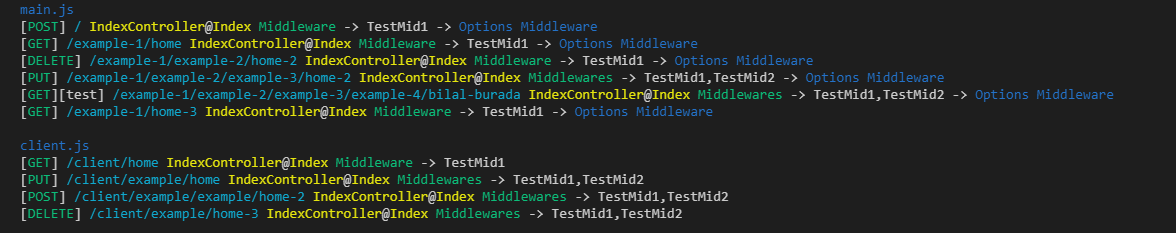
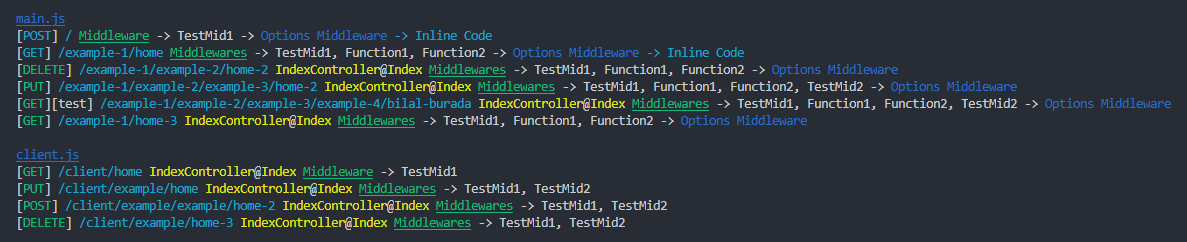
Added writing inline code to action and middlewares params.

Changed region(s): [[0.0, 0.03, 1.0, 0.5408], [0.0, 0.6009, 0.6122, 0.9614]]

diff --git a/index.js b/index.js
@@ -101,7 +101,7 @@ var DynamicRoute = /** @class */ (function () {
             }
             else {
                 route.Key = route.Key || '';
-                route.Middlewares = route.Middlewares || [];
+                route.Middlewares = typeof route.Middlewares === 'function' ? [route.Middlewares] : (route.Middlewares || []);
                 if (route.ParentIds) {
                     var routeParentIds_1 = route.ParentIds.split(',');
                     var routeUrls_1 = [];
@@ -206,7 +206,7 @@ var DynamicRoute = /** @class */ (function () {
                         var FullControllerPath = _this.Folders.Controllers + '/' + route.Controller;
                         var MiddlewaresFolder_1 = _this.Folders.Middlewares;
                         if (route.OptionsMiddlewares) {
-                            _this.App.use(route.Url + "*", route.OptionsMiddlewares.map(function (mid) {
+                            _this.App.use(route.Url + "/*", route.OptionsMiddlewares.map(function (mid) {
                                 if (typeof mid === 'function') {
                                     return mid;
                                 }
@@ -214,7 +214,9 @@ var DynamicRoute = /** @class */ (function () {
                                     return require(MiddlewaresFolder_1 + '/' + mid);
                                 }
                             }));
-                            _this.routeLog(route.Method, route.Key, route.Url, route.Controller, route.Action, route.Middlewares, route.OptionsMiddlewares);
+                        }
+                        if (typeof route.Action === 'function') {
+                            _this.routeLog(route.Method, route.Key, route.Url, '', '', route.Middlewares, route.OptionsMiddlewares, '', 'Inline Code');
                         }
                         else {
                             _this.routeLog(route.Method, route.Key, route.Url, route.Controller, route.Action, route.Middlewares, route.OptionsMiddlewares);
@@ -226,7 +228,7 @@ var DynamicRoute = /** @class */ (function () {
                             else {
                                 return require(MiddlewaresFolder_1 + '/' + mid);
                             }
-                        }), require("" + FullControllerPath)["" + route.Action]);
+                        }), (typeof route.Action === 'function' ? route.Action : require("" + FullControllerPath)["" + route.Action]));
                     }
                     else {
                         _this.routeLog(route.Method, route.Key, route.Url, route.Controller, route.Action, route.Middlewares, route.OptionsMiddlewares, 'Passive');
@@ -238,6 +240,7 @@ var DynamicRoute = /** @class */ (function () {
             });
         }
         catch (e) {
+            console.log(e);
             console.log(colors_1.default.red(e));
         }
     };
@@ -278,18 +281,33 @@ var DynamicRoute = /** @class */ (function () {
     /*
      * Routelar için bilgiler console a basılıyor.
      */
-    DynamicRoute.prototype.routeLog = function (method, key, url, controller, action, middlewares, optionsMiddlewares, error) {
+    DynamicRoute.prototype.routeLog = function (method, key, url, controller, action, middlewares, optionsMiddlewares, error, codeInfo) {
         if (error === void 0) { error = ''; }
-        var text = "" + (error ? "[" + colors_1.default.red("" + method) + "]" : "[" + colors_1.default.green("" + method) + "]") + (key ? "[" + key + "]" : '') + " " + colors_1.default.cyan(url) + " " + colors_1.default.yellow("" + controller) + "@" + colors_1.default.yellow("" + action);
+        if (codeInfo === void 0) { codeInfo = ''; }
+        var text = "" + (error ? "[" + colors_1.default.red("" + method) + "]" : (codeInfo ? "[" + colors_1.default.cyan("" + method) + "]" : "[" + colors_1.default.green("" + method) + "]")) + (key ? "[" + key + "]" : '') + " " + colors_1.default.cyan(url);
+        text += controller && action ? " " + colors_1.default.yellow("" + controller) + "@" + colors_1.default.yellow("" + action) : '';
         if (middlewares.length > 0) {
             text += ' ' + colors_1.default.underline(colors_1.default.green('Middleware' + (middlewares.length > 1 ? 's' : '')));
-            text += ' -> ' + middlewares.join(',');
+            var midStr_1 = '';
+            middlewares.map(function (mid, i) {
+                if (typeof mid === 'function') {
+                    midStr_1 += "Function" + i;
+                }
+                else {
+                    midStr_1 += "" + mid;
+                }
+                midStr_1 += middlewares.length - 1 !== i ? ', ' : '';
+            });
+            text += " -> " + midStr_1;
         }
         if (optionsMiddlewares && optionsMiddlewares.length > 0) {
             text += ' -> ' + colors_1.default.blue('Options Middleware' + (optionsMiddlewares.length > 1 ? 's' : ''));
         }
         if (error) {
             text += colors_1.default.red(' -> ' + error);
+        }
+        if (codeInfo) {
+            text += colors_1.default.cyan(' -> ' + codeInfo);
         }
         this.log(text);
     };

diff --git a/index.ts b/index.ts
@@ -99,7 +99,7 @@ class DynamicRoute {
                 this.groupRoute.pop();
             } else {                
                 route.Key = route.Key || '';
-                route.Middlewares = route.Middlewares || [];
+                route.Middlewares = typeof route.Middlewares === 'function' ? [route.Middlewares] : (route.Middlewares || []);
 
                 if(route.ParentIds) {
                     let routeParentIds: string[] = route.ParentIds.split(',');
@@ -215,7 +215,7 @@ class DynamicRoute {
                         let MiddlewaresFolder = this.Folders.Middlewares;
 
                         if (route.OptionsMiddlewares) {
-                            this.App.use(`${route.Url}*`, 
+                            this.App.use(`${route.Url}/*`, 
                                 route.OptionsMiddlewares.map(mid => {
                                     if(typeof mid === 'function') {
                                         return mid
@@ -224,20 +224,23 @@ class DynamicRoute {
                                     }
                                 })
                             );
-                            this.routeLog(route.Method, route.Key, route.Url, route.Controller, route.Action, route.Middlewares, route.OptionsMiddlewares);
+                        }
+
+                        if(typeof route.Action === 'function') {
+                            this.routeLog(route.Method, route.Key, route.Url, '', '', route.Middlewares, route.OptionsMiddlewares, '', 'Inline Code');
                         } else {
                             this.routeLog(route.Method, route.Key, route.Url, route.Controller, route.Action, route.Middlewares, route.OptionsMiddlewares);
                         }
 
                         this.App[`${route.Method.toLowerCase()}`](`${route.Url}`,
                             route.Middlewares.map(mid=> {
-                                if(typeof mid === 'function'){
+                                if(typeof mid === 'function') {
                                     return mid
-                                }else{
+                                } else {
                                     return require(MiddlewaresFolder+'/'+mid)
                                 }
                             })
-                            ,require(`${FullControllerPath}`)[`${route.Action}`]);
+                            , (typeof route.Action === 'function' ? route.Action : require(`${FullControllerPath}`)[`${route.Action}`]) );
 
                     } else {
                         this.routeLog(route.Method, route.Key, route.Url, route.Controller, route.Action, route.Middlewares, route.OptionsMiddlewares, 'Passive');
@@ -247,6 +250,7 @@ class DynamicRoute {
                 }
             });
         } catch(e) {
+            console.log(e);
             console.log(colors.red(e));
         }
     }
@@ -291,17 +295,31 @@ class DynamicRoute {
     /*
      * Routelar için bilgiler console a basılıyor.
      */
-    private routeLog(method: string, key: string, url: string, controller: string, action: string, middlewares: any[], optionsMiddlewares: any[], error: string = '') {
-        let text: string = `${error ? `[${colors.red(`${method}`)}]` : `[${colors.green(`${method}`)}]`}${key ? `[${key}]` : ''} ${colors.cyan(url)} ${colors.yellow(`${controller}`)}@${colors.yellow(`${action}`)}`;
+    private routeLog(method: string, key: string, url: string, controller: string, action: string, middlewares: any[], optionsMiddlewares: any[], error: string = '', codeInfo: string = '') {
+        let text: string = `${error ? `[${colors.red(`${method}`)}]` : (codeInfo ? `[${colors.cyan(`${method}`)}]` : `[${colors.green(`${method}`)}]`) }${key ? `[${key}]` : ''} ${colors.cyan(url)}`;
+        text += controller && action ? ` ${colors.yellow(`${controller}`)}@${colors.yellow(`${action}`)}` : '';
         if(middlewares.length > 0) {
             text+= ' '+colors.underline(colors.green('Middleware'+(middlewares.length > 1 ? 's':'')));
-            text += ' -> '+middlewares.join(',');
+            
+            let midStr: string = '';
+            middlewares.map((mid, i) => {
+                if(typeof mid === 'function') {
+                    midStr += `Function${i}`;
+                } else {
+                    midStr += `${mid}`;
+                }
+                midStr += middlewares.length-1 !== i ? ', ': '';
+            });
+            text += ` -> ${midStr}`;
         }
         if(optionsMiddlewares && optionsMiddlewares.length > 0) {
             text+= ' -> '+colors.blue('Options Middleware'+(optionsMiddlewares.length > 1 ? 's':''));
         }
         if(error) {
             text += colors.red(' -> '+error);
+        }
+        if(codeInfo) {
+            text += colors.cyan(' -> '+codeInfo);
         }
         this.log(text);
     }
@@ -324,7 +342,7 @@ interface RoutesModel {
     Method: string;
     Url: string;
     Controller: string;
-    Action: string;
+    Action: any;
     Middlewares: any[];
     OptionsMiddlewares: any[];
     Status: boolean;

diff --git a/example/routers/main.js b/example/routers/main.js
@@ -23,18 +23,36 @@ module.exports= [
         Routes: [
             {
                 Method: 'POST',
-                Controller: 'IndexController',
-                Action: 'Index'
+                Action: (req, res, next)=> {
+                    console.log("Inline Code 1");
+                    res.json({
+                        code: "This is inline code."
+                    });
+                }
             },
             {
                 Url: 'example-1',
                 Method: 'GET',
+                Middlewares: [
+                    (req, res, next)=> {
+                        res.setHeader('Middleware','Inline Middleware');
+                        next();
+                    },
+                    (req, res, next)=> {
+                        res.setHeader('Middleware_2','Inline Middleware');
+                        next();
+                    }
+                ],
                 Routes: [
                     {
                         Method: 'GET',
                         Url: 'home',
-                        Controller: 'IndexController',
-                        Action: 'Index'
+                        Action: (req, res, next)=> {
+                            console.log("Inline Code 2");
+                            res.json({
+                                code: "This is inline code."
+                            });
+                        }
                     },
                     {
                         Url: 'example-2',

diff --git a/README.md b/README.md
@@ -79,17 +79,37 @@
             {
                 Method: 'POST',
                 Controller: 'IndexController',
-                Action: 'Index'
+                Action: (req, res, next)=> {
+                    console.log("Inline Code 1");
+                    res.json({
+                        code: "This is inline code."
+                    });
+                }
             },
             {
                 Url: 'example-1',
                 Method: 'GET',
+                Middlewares: [
+                    (req, res, next)=> {
+                        res.setHeader('Middleware','Inline Middleware');
+                        next();
+                    },
+                    (req, res, next)=> {
+                        res.setHeader('Middleware_2','Inline Middleware');
+                        next();
+                    }
+                ],
                 Routes: [
                         {
                             Method: 'GET',
                             Url: 'home',
                             Controller: 'IndexController',
-                            Action: 'Index'
+                            Action: (req, res, next)=> {
+                                console.log("Inline Code 2");
+                                res.json({
+                                    code: "This is inline code."
+                                });
+                            }
                         },
                         {
                             Url: 'example-2',
